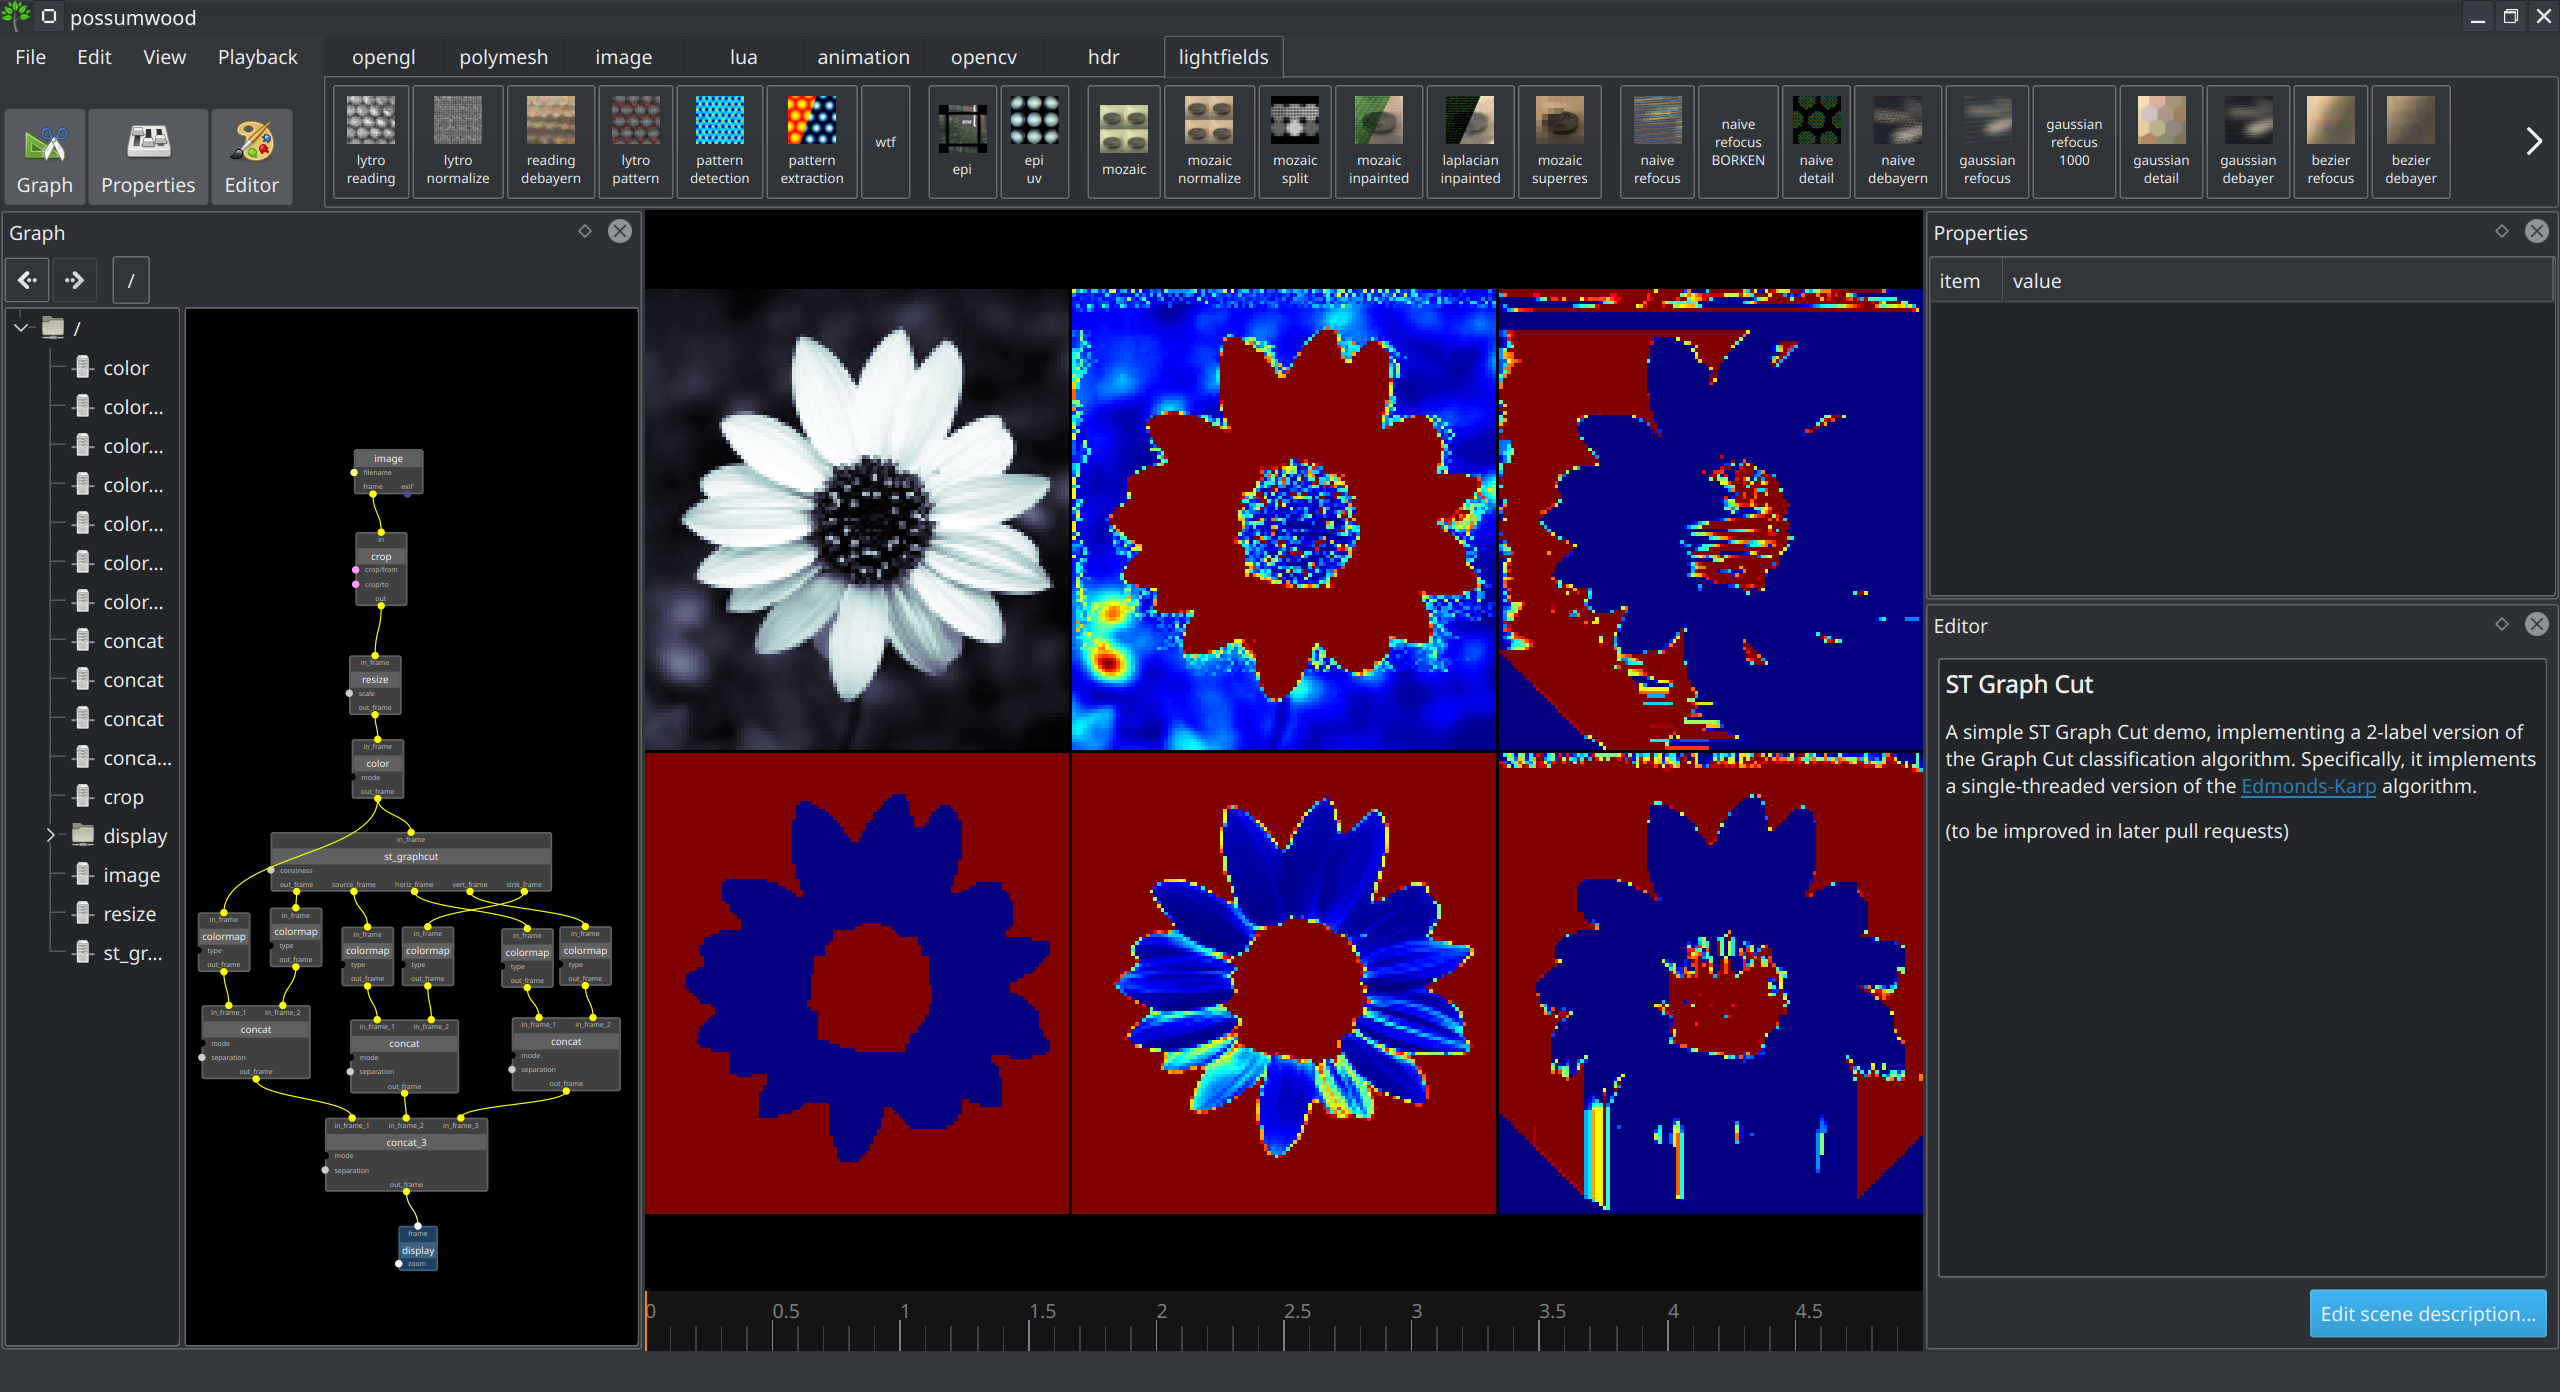
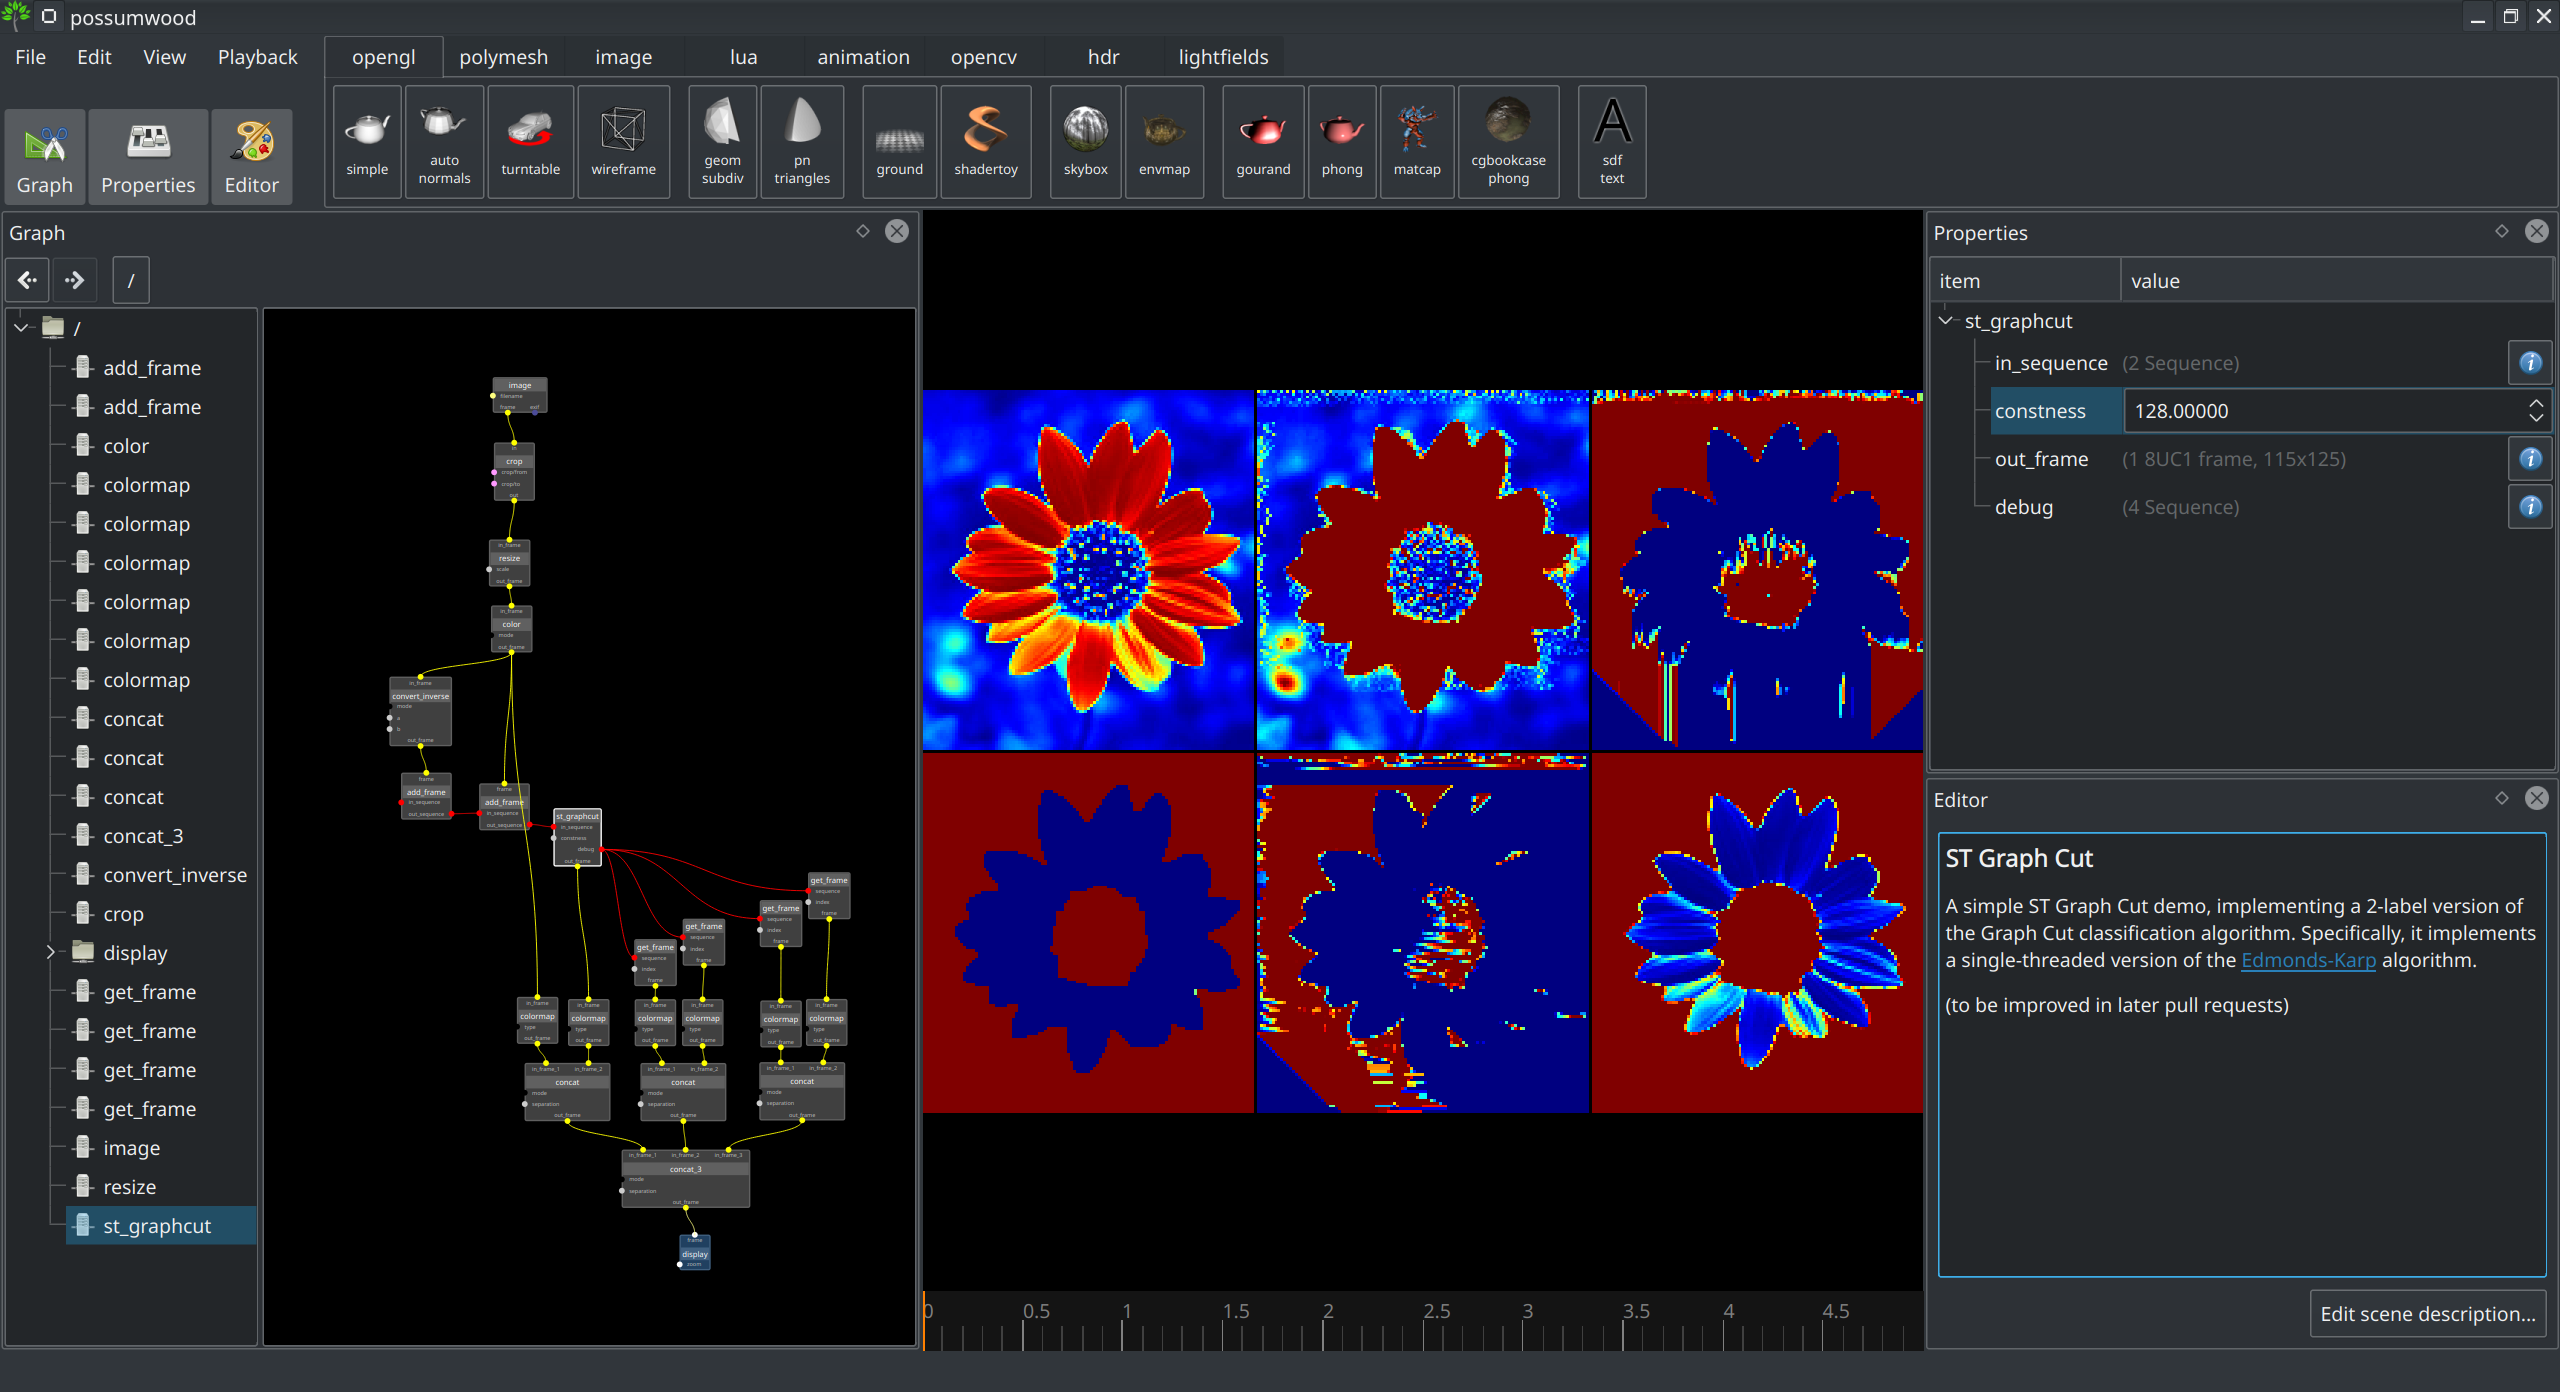
Graphcut node reimplemented to support a dynamic input count interface

diff --git a/src/plugins/opencv/nodes/lightfields/st_graphcut.cpp b/src/plugins/opencv/nodes/lightfields/st_graphcut.cpp
@@ -8,64 +8,76 @@
 
 #include <lightfields/graph.h>
 
-#include "frame.h"
+#include "sequence.h"
 #include "tools.h"
 
 namespace {
 
-dependency_graph::InAttr<possumwood::opencv::Frame> a_in;
+dependency_graph::InAttr<possumwood::opencv::Sequence> a_in;
 dependency_graph::InAttr<float> a_constness;
-dependency_graph::OutAttr<possumwood::opencv::Frame> a_out, a_source, a_horiz, a_vert, a_sink;
+dependency_graph::OutAttr<possumwood::opencv::Frame> a_out;
+dependency_graph::OutAttr<possumwood::opencv::Sequence> a_debug;
 
 dependency_graph::State compute(dependency_graph::Values& data) {
-	cv::Mat values = (*data.get(a_in)).clone();
+	const possumwood::opencv::Sequence& sequence = data.get(a_in);
 
-	if(values.type() != CV_8UC1)
-		throw std::runtime_error("Only 8-bit unsigned char supported on input, " + possumwood::opencv::type2str((*data.get(a_in)).type()) + " found instead!");
+	if(sequence.size() < 2)
+		throw std::runtime_error("At least two images required in the input sequence.");
 
-	lightfields::Graph graph(lightfields::V2i(values.cols, values.rows), std::max(0.0f, data.get(a_constness)));
+	const int width = (**sequence.begin()).cols;
+	const int height = (**sequence.begin()).rows;
 
-	for(int row = 0; row < values.rows; ++row)
-		for(int col = 0; col < values.cols; ++col) {
-			const int val = values.at<unsigned char>(row, col);
-			graph.setValue(lightfields::V2i(col, row), 255-val, val);
+	for(auto& f : sequence)
+		if((*f).rows != height || (*f).cols != width)
+			throw std::runtime_error("Consistent width and height is required in the input sequence.");
+
+	for(auto& f : sequence)
+		if((*f).type() != CV_8UC1)
+			throw std::runtime_error("Only CV_8UC1 images accepted on input.");
+
+
+	// temporary
+	if(sequence.size() != 2)
+		throw std::runtime_error("Only 2 images supported on input for the moment.");
+
+	const cv::Mat& m1 = (**sequence.begin());
+	const cv::Mat& m2 = (**(sequence.begin() + 1));
+
+	lightfields::Graph graph(lightfields::V2i(m1.cols, m1.rows), std::max(0.0f, data.get(a_constness)));
+
+	for(int row = 0; row < m1.rows; ++row)
+		for(int col = 0; col < m1.cols; ++col) {
+			const int v1 = m1.at<unsigned char>(row, col);
+			const int v2 = m2.at<unsigned char>(row, col);
+			graph.setValue(lightfields::V2i(col, row), v1, v2);
 		}
 
 	graph.solve();
 
 	data.set(a_out, possumwood::opencv::Frame(graph.minCut()));
 
-	data.set(a_source, possumwood::opencv::Frame(graph.sourceFlow()));
-	data.set(a_horiz, possumwood::opencv::Frame(graph.horizontalFlow()));
-	data.set(a_vert, possumwood::opencv::Frame(graph.verticalFlow()));
-	data.set(a_sink, possumwood::opencv::Frame(graph.sinkFlow()));
+	possumwood::opencv::Sequence debug;
+	debug.add(graph.sourceFlow());
+	debug.add(graph.horizontalFlow());
+	debug.add(graph.verticalFlow());
+	debug.add(graph.sinkFlow());
+
+	data.set(a_debug, debug);
 
 	return dependency_graph::State();
 }
 
 void init(possumwood::Metadata& meta) {
-	meta.addAttribute(a_in, "in_frame", possumwood::opencv::Frame(), possumwood::AttrFlags::kVertical);
+	meta.addAttribute(a_in, "in_sequence", possumwood::opencv::Sequence());
 	meta.addAttribute(a_constness, "constness", 128.0f);
 	meta.addAttribute(a_out, "out_frame", possumwood::opencv::Frame(), possumwood::AttrFlags::kVertical);
-	meta.addAttribute(a_source, "source_frame", possumwood::opencv::Frame(), possumwood::AttrFlags::kVertical);
-	meta.addAttribute(a_horiz, "horiz_frame", possumwood::opencv::Frame(), possumwood::AttrFlags::kVertical);
-	meta.addAttribute(a_vert, "vert_frame", possumwood::opencv::Frame(), possumwood::AttrFlags::kVertical);
-	meta.addAttribute(a_sink, "sink_frame", possumwood::opencv::Frame(), possumwood::AttrFlags::kVertical);
+	meta.addAttribute(a_debug, "debug", possumwood::opencv::Sequence());
 
 	meta.addInfluence(a_in, a_out);
 	meta.addInfluence(a_constness, a_out);
 
-	meta.addInfluence(a_in, a_source);
-	meta.addInfluence(a_constness, a_source);
-
-	meta.addInfluence(a_in, a_horiz);
-	meta.addInfluence(a_constness, a_horiz);
-
-	meta.addInfluence(a_in, a_vert);
-	meta.addInfluence(a_constness, a_vert);
-
-	meta.addInfluence(a_in, a_sink);
-	meta.addInfluence(a_constness, a_sink);
+	meta.addInfluence(a_in, a_debug);
+	meta.addInfluence(a_constness, a_debug);
 
 	meta.setCompute(compute);
 }

diff --git a/src/plugins/opencv/nodes/sequence/get_frame.cpp b/src/plugins/opencv/nodes/sequence/get_frame.cpp
@@ -1,0 +1,40 @@
+#include <possumwood_sdk/node_implementation.h>
+#include <possumwood_sdk/datatypes/filename.h>
+
+#include <opencv2/opencv.hpp>
+
+#include <actions/traits.h>
+
+#include "sequence.h"
+
+namespace {
+
+dependency_graph::InAttr<possumwood::opencv::Sequence> a_sequence;
+dependency_graph::InAttr<unsigned> a_index;
+dependency_graph::OutAttr<possumwood::opencv::Frame> a_frame;
+
+dependency_graph::State compute(dependency_graph::Values& data) {
+	const possumwood::opencv::Sequence& seq = data.get(a_sequence);
+
+	if(seq.size() <= data.get(a_index))
+		throw std::runtime_error("Invalid index requested.");
+
+	data.set(a_frame, *(seq.begin() + data.get(a_index)));
+
+	return dependency_graph::State();
+}
+
+void init(possumwood::Metadata& meta) {
+	meta.addAttribute(a_sequence, "sequence");
+	meta.addAttribute(a_index, "index", 0u);
+	meta.addAttribute(a_frame, "frame", possumwood::opencv::Frame(), possumwood::AttrFlags::kVertical);
+
+	meta.addInfluence(a_sequence, a_frame);
+	meta.addInfluence(a_index, a_frame);
+
+	meta.setCompute(compute);
+}
+
+possumwood::NodeImplementation s_impl("opencv/sequence/get_frame", init);
+
+}
